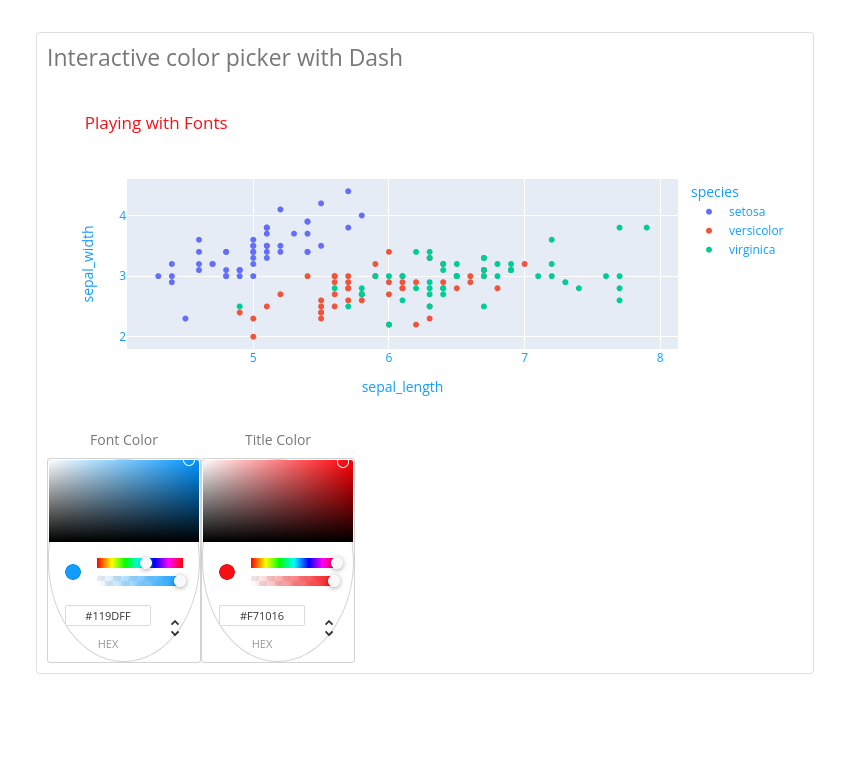
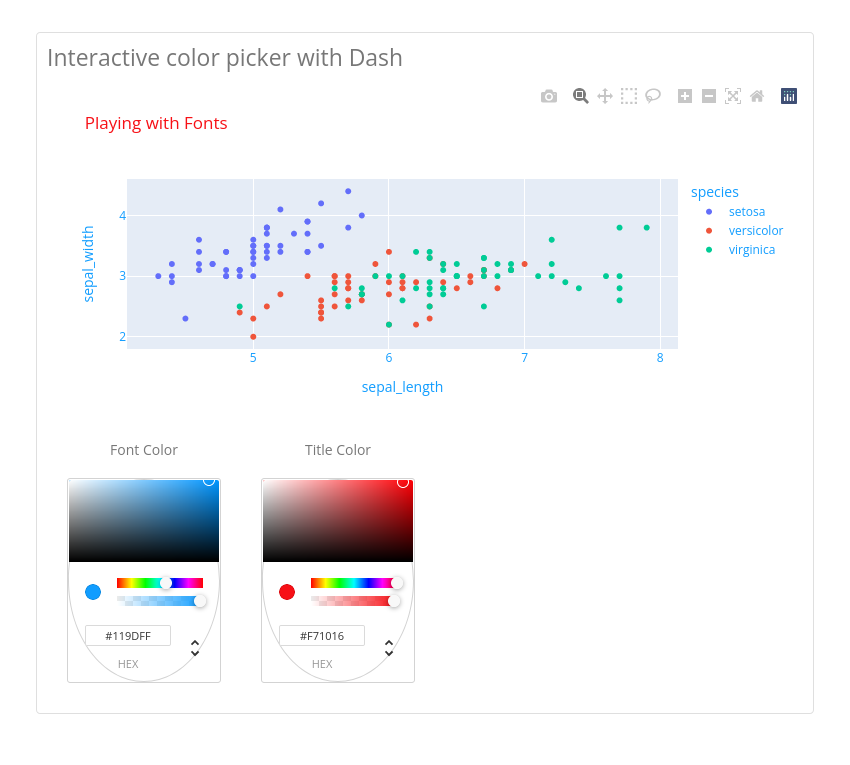
move reading global data out of callback

Changed region(s): [[0.0306, 0.5712, 0.4894, 0.902], [0.7953, 0.0902, 0.9482, 0.1503], [0.6424, 0.1203, 0.7341, 0.1503]]

diff --git a/examples/country-distances.py b/examples/country-distances.py
@@ -2,14 +2,13 @@ from dash import Dash, dcc, html, Input, Output, no_update
 import plotly.express as px
 import dash_bootstrap_components as dbc
 
-# Defining the Dash application
 app = Dash(__name__, external_stylesheets=[dbc.themes.BOOTSTRAP])
 
 df = px.data.gapminder().query("year == 2007")
 
 dropdown_country_a = dcc.Dropdown(
     id="country-distances-x-dropdown-a",
-    options=[cntry for cntry in df.country],
+    options=df.country,
     value="Turkey",
 )
 
@@ -47,7 +46,7 @@ app.layout = dbc.Container(
 )
 def set_dropdown_b_options(dropdown_a_value, dropdown_b_options):
     return (
-        [cntry for cntry in df[df.country != dropdown_a_value].country],
+        df[df.country != dropdown_a_value].country,
         "Canada" if dropdown_b_options is None else no_update,
     )
 
@@ -60,7 +59,6 @@ def set_dropdown_b_options(dropdown_a_value, dropdown_b_options):
     Input("country-distances-x-dropdown-b", "value"),
 )
 def make_line_geo_graph(country_a, country_b):
-
     dff = df[df.country.isin([country_a, country_b])]
 
     fig = px.line_geo(
@@ -86,6 +84,5 @@ def make_line_geo_graph(country_a, country_b):
     return fig, fig_locations
 
 
-# Run the app
 if __name__ == "__main__":
     app.run_server(debug=True)

diff --git a/examples/dash_download_component_app.py b/examples/dash_download_component_app.py
@@ -2,10 +2,11 @@ from dash import Dash, dcc, html, Input, Output, dash_table, State
 import plotly.express as px
 import dash_bootstrap_components as dbc
 
-# Read dataset into pandas dataframe
+
 df = px.data.stocks()
 
 app = Dash(__name__, external_stylesheets=[dbc.themes.BOOTSTRAP])
+
 app.layout = dbc.Container(
     [
         dbc.Row(
@@ -60,15 +61,10 @@ app.layout = dbc.Container(
 @app.callback(
     Output("dash_download_component_app-x-download", "data"),
     Input("dash_download_component_app-x-btn_csv", "n_clicks"),
-    State(
-        component_id="dash_download_component_app-x-dropdown",
-        component_property="value",
-    ),
+    State("dash_download_component_app-x-dropdown", "value"),
     prevent_initial_call=True,
 )
 def func(n_clicks_btn, download_type):
-    print(download_type)
-
     if download_type == "csv":
         return dcc.send_data_frame(df.to_csv, "mydf.csv")
     else:

diff --git a/examples/slider-plots.py b/examples/slider-plots.py
@@ -2,11 +2,13 @@ from dash import Dash, dcc, html, Input, Output
 import plotly.express as px
 import pandas as pd
 
+df = px.data.iris()
+
 app = Dash(__name__)
 
 app.layout = html.Div(
     [
-        html.H4("Analysis of the restaurant's revenue"),
+        html.H4("Analysis of the iris data set"),
         html.P("Select sepal length:"),
         dcc.Slider(id="slider-plots-x-sepal-length", min=5, max=8, value=5.1),
         dcc.Graph(id="slider-plots-x-graph"),
@@ -19,9 +21,8 @@ app.layout = html.Div(
     Input("slider-plots-x-sepal-length", "value"),
 )
 def display_graph(value):
-    df = px.data.iris()  # replace with your own data source
-    df = df.query(f"sepal_length <= {value}")
-    data = pd.DataFrame(df.species.value_counts())
+    dff = df.query(f"sepal_length <= {value}")
+    data = pd.DataFrame(dff.species.value_counts())
     fig = px.bar(
         data,
         y="species",

diff --git a/examples/figure-labels.py b/examples/figure-labels.py
@@ -3,10 +3,11 @@ import plotly.graph_objects as go
 import plotly.express as px
 import dash_daq as daq
 
+df = px.data.iris()
+
 app = Dash(__name__)
 
-
-picker_style = {"float": "left", "margin": "auto"}
+picker_style = {"display": "inline-block", "margin": 10}
 
 app.layout = html.Div(
     [
@@ -36,9 +37,7 @@ app.layout = html.Div(
     Input("figure-labels-x-title", "value"),
 )
 def update_chart(font_color, title_color):
-    df = px.data.iris()  # replace with your own data source
-    fig = go.Figure(
-        px.scatter(
+    fig = px.scatter(
             df,
             x="sepal_length",
             y="sepal_width",
@@ -46,7 +45,7 @@ def update_chart(font_color, title_color):
             color="species",
             title="Playing with Fonts",
         )
-    )
+
     fig.update_layout(font_color=font_color["hex"], title_font_color=title_color["hex"])
     return fig
 

diff --git a/examples/bar-charts.py b/examples/bar-charts.py
@@ -1,13 +1,12 @@
 from dash import Dash, dcc, html, Input, Output, callback
 import plotly.express as px
 
+df = px.data.tips()
+
 app = Dash(__name__)
 
-dropdown = dcc.Dropdown(
-    options=["Fri", "Sat", "Sun"],
-    value="Fri",
-    clearable=False,
-)
+dropdown = dcc.Dropdown(["Fri", "Sat", "Sun"], "Fri", clearable=False)
+
 graph = dcc.Graph()
 
 app.layout = html.Div([html.H4("Restaurant tips by day of week"), dropdown, graph])
@@ -15,7 +14,9 @@ app.layout = html.Div([html.H4("Restaurant tips by day of week"), dropdown, grap
 
 @callback(Output(graph, "figure"), Input(dropdown, "value"))
 def update_bar_chart(day):
-    df = px.data.tips()  # replace with your own data source
     mask = df["day"] == day
     fig = px.bar(df[mask], x="sex", y="total_bill", color="smoker", barmode="group")
     return fig
+
+if __name__ == "__main__":
+    app.run_server(debug=True)

diff --git a/examples/candlestick-charts.py b/examples/candlestick-charts.py
@@ -2,6 +2,7 @@ from dash import Dash, dcc, html, Input, Output
 import plotly.graph_objects as go
 import pandas as pd
 
+df = pd.read_csv("https://raw.githubusercontent.com/plotly/datasets/master/finance-charts-apple.csv")
 
 app = Dash(__name__)
 
@@ -23,9 +24,6 @@ app.layout = html.Div(
     Input("candlestick-charts-x-toggle-rangeslider", "value"),
 )
 def display_candlestick(value):
-    df = pd.read_csv(
-        "https://raw.githubusercontent.com/plotly/datasets/master/finance-charts-apple.csv"
-    )  # replace with your own data source
     fig = go.Figure(
         go.Candlestick(
             x=df["Date"],
@@ -35,9 +33,7 @@ def display_candlestick(value):
             close=df["AAPL.Close"],
         )
     )
-
     fig.update_layout(xaxis_rangeslider_visible="slider" in value)
-
     return fig
 
 

diff --git a/examples/sankey-diagram.py b/examples/sankey-diagram.py
@@ -2,6 +2,10 @@ from dash import Dash, dcc, html, Input, Output
 import plotly.graph_objects as go
 import json, urllib
 
+url = "https://raw.githubusercontent.com/plotly/plotly.js/master/test/image/mocks/sankey_energy.json"
+response = urllib.request.urlopen(url)
+data = json.loads(response.read())
+
 app = Dash(__name__)
 
 app.layout = html.Div(
@@ -19,10 +23,6 @@ app.layout = html.Div(
     Input("sankey-diagram-x-slider", "value"),
 )
 def display_sankey(opacity):
-    url = "https://raw.githubusercontent.com/plotly/plotly.js/master/test/image/mocks/sankey_energy.json"
-    response = urllib.request.urlopen(url)
-    data = json.loads(response.read())  # replace with your own data source
-
     node = data["data"][0]["node"]
     node["color"] = [
         f"rgba(255,0,255,{opacity})"

diff --git a/examples/roc-and-pr-curves.py b/examples/roc-and-pr-curves.py
@@ -12,6 +12,9 @@ MODELS = {
     "k-NN": neighbors.KNeighborsClassifier,
 }
 
+X, y = datasets.make_classification(n_samples=1500, random_state=0)
+X_train, X_test, y_train, y_test = train_test_split(X, y, random_state=42)
+
 app.layout = html.Div(
     [
         html.H4("Analysis of the ML model's results using ROC and PR curves"),
@@ -32,11 +35,6 @@ app.layout = html.Div(
     Input("roc-and-pr-curves-x-dropdown", "value"),
 )
 def train_and_display(model_name):
-    X, y = datasets.make_classification(  # replace with your own data source
-        n_samples=1500, random_state=0
-    )
-    X_train, X_test, y_train, y_test = train_test_split(X, y, random_state=42)
-
     model = MODELS[model_name]()
     model.fit(X_train, y_train)
 

diff --git a/examples/filled-area-plots.py b/examples/filled-area-plots.py
@@ -1,6 +1,8 @@
 from dash import Dash, dcc, html, Input, Output
 import plotly.express as px
 
+df = px.data.gapminder()
+
 app = Dash(__name__)
 
 app.layout = html.Div(
@@ -22,11 +24,9 @@ app.layout = html.Div(
     Input("filled-area-plots-x-y-axis", "value"),
 )
 def display_area(y):
-    df = px.data.gapminder()  # replace with your own data source
     countries = df.country.drop_duplicates().sample(n=10, random_state=42)
-    df = df[df.country.isin(countries)]
-
-    fig = px.area(df, x="year", y=y, color="continent", line_group="country")
+    dff = df[df.country.isin(countries)]
+    fig = px.area(dff, x="year", y=y, color="continent", line_group="country")
     return fig
 
 

diff --git a/examples/planes_scatter_geo.py b/examples/planes_scatter_geo.py
@@ -2,6 +2,10 @@ from dash import Dash, dcc, html, Input, Output
 import plotly.express as px
 import pandas as pd
 
+df_airports = pd.read_csv(
+        "https://raw.githubusercontent.com/plotly/datasets/master/2011_february_us_airport_traffic.csv"
+    )
+
 app = Dash(__name__)
 
 
@@ -31,9 +35,6 @@ app.layout = html.Div(
     Input("planes_scatter_geo-x-type", "value"),
 )
 def generate_chart(values):
-    df_airports = pd.read_csv(
-        "https://raw.githubusercontent.com/plotly/datasets/master/2011_february_us_airport_traffic.csv"
-    )
     if values == "scatter_geo":
         # changing so that the default position will be US
         fig = px.scatter_geo(

diff --git a/examples/plot-data-from-csv.py b/examples/plot-data-from-csv.py
@@ -2,6 +2,8 @@ from dash import Dash, dcc, html, Input, Output
 import plotly.express as px
 import pandas as pd
 
+df = pd.read_csv("https://raw.githubusercontent.com/plotly/datasets/master/2014_apple_stock.csv")
+
 app = Dash(__name__)
 
 app.layout = html.Div(
@@ -18,10 +20,6 @@ app.layout = html.Div(
     Input("plot-data-from-csv-x-button", "n_clicks"),
 )
 def display_graph(n_clicks):
-    df = pd.read_csv(
-        "https://raw.githubusercontent.com/plotly/datasets/master/2014_apple_stock.csv"
-    )  # replace with your own data source
-
     if n_clicks % 2 == 0:
         x, y = "AAPL_x", "AAPL_y"
     else:

diff --git a/examples/horizontal-vertical-shapes.py b/examples/horizontal-vertical-shapes.py
@@ -1,8 +1,9 @@
 from dash import Dash, dcc, html, Input, Output
 import plotly.express as px
 
-app = Dash(__name__)
+df = px.data.iris()
 
+app = Dash(__name__)
 
 app.layout = html.Div(
     [
@@ -26,7 +27,6 @@ app.layout = html.Div(
     Input("horizontal-vertical-shapes-x-slider-position", "value"),
 )
 def display_graph(pos_x):
-    df = px.data.iris()  # replace with your own data source
     fig = px.scatter(df, x="petal_length", y="petal_width")
     fig.add_vline(x=pos_x, line_width=3, line_dash="dash", line_color="green")
     fig.add_hrect(y0=0.9, y1=2.6, line_width=0, fillcolor="red", opacity=0.2)
